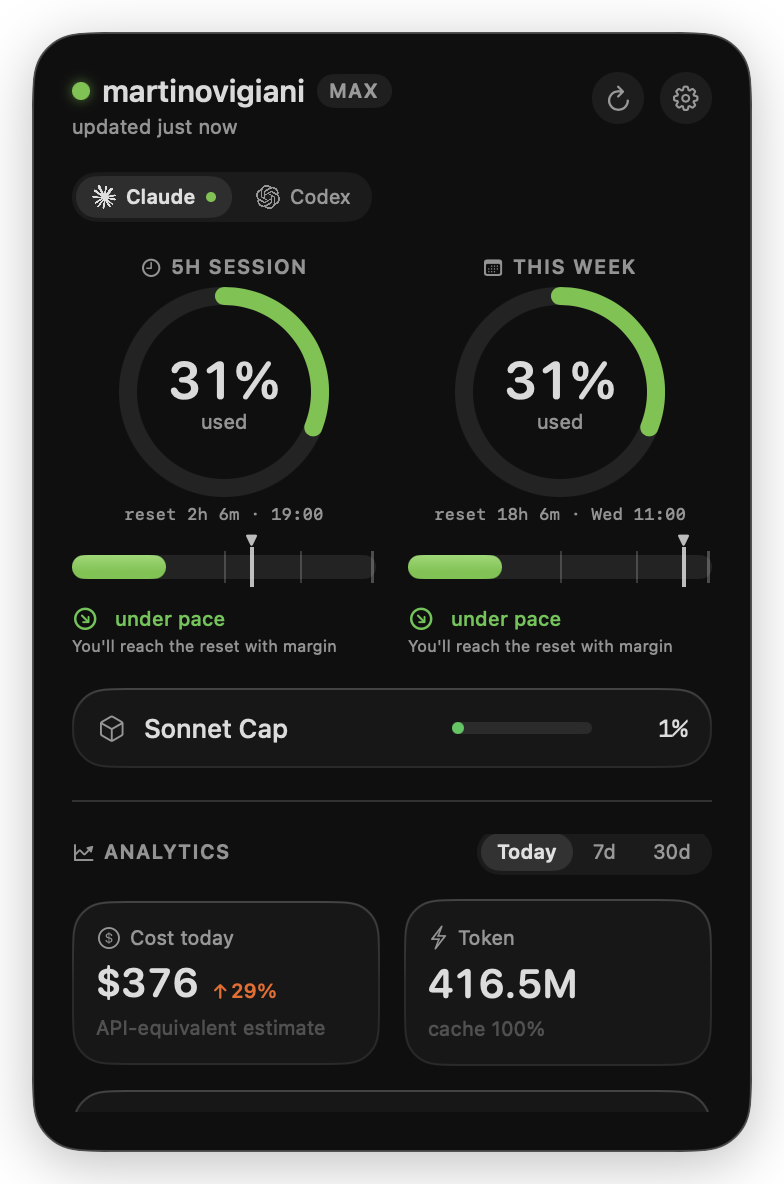
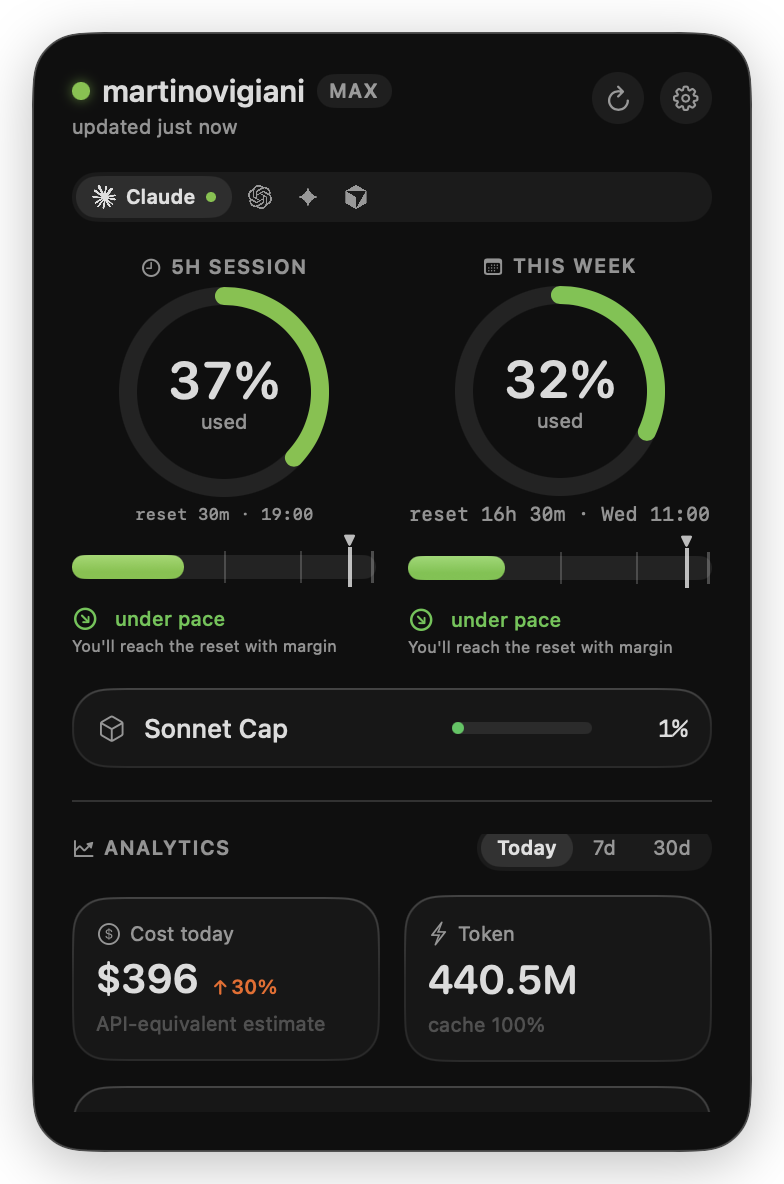
feat(panel): Quit button in header + collapsible limits + light-mode contrast
Panel UI improvements (continues prior in-flight WIP + adds Quit):

- Quit button: third neutral glass circle in the header (power glyph), one tap
  to terminate. Distinct "exit" affordance via red tint on hover only — neutral
  at rest like refresh/settings. Wired through PanelViewModeling.quit() (default
  no-op for mocks) → AppModelPanelAdapter → AppModel.quit(). Until now Quit lived
  only in the status-item right-click menu. Localized IT "Esci da ClaudeBar".

- Collapsible limits band (prior WIP): CollapseHandle turns the limits↔analytics
  divider into a toggle that collapses the band to the two rings, growing the
  panel (panelMaxHeightExpanded) so analytics get real room.

- Light-mode contrast (prior WIP): CardBezel fill more opaque + softer inset
  highlight; tertiary→secondary on disclaimers/footnotes so text stops washing
  out on light glass. Show-more label forced to .primary.

diff --git a/Sources/ClaudeBarApp/Panel/PanelContentView.swift b/Sources/ClaudeBarApp/Panel/PanelContentView.swift
@@ -24,6 +24,10 @@ struct PanelContentView<Model: PanelViewModeling>: View {
 
     @State private var showUsed = true
     @State private var appeared = false
+    /// Fascia limiti collassata ai soli 2 anelli → più spazio verticale alle analytics.
+    /// Controllata dalla `CollapseHandle` sotto la fascia. Vale solo col layout limiti
+    /// (anelli); negli stati error/no-auth non ci sono finestre da collassare.
+    @State private var topCollapsed = false
     @Namespace private var glassNS
 
     @Environment(\.accessibilityReduceMotion) private var reduceMotion
@@ -35,7 +39,9 @@ struct PanelContentView<Model: PanelViewModeling>: View {
     }
 
     var body: some View {
-        GlassEffectContainer(spacing: DS.Spacing.l) {
+        // Collassabile solo quando c'è davvero la fascia anelli (layout limiti).
+        let collapsed = topCollapsed && !model.windows.isEmpty
+        return GlassEffectContainer(spacing: DS.Spacing.l) {
             VStack(alignment: .leading, spacing: DS.Spacing.l) {
                 PanelHeaderView(
                     account: model.account,
@@ -43,7 +49,8 @@ struct PanelContentView<Model: PanelViewModeling>: View {
                     lastUpdated: model.lastUpdated,
                     isRefreshing: model.isRefreshing,
                     onRefresh: { model.refresh() },
-                    onSettings: { model.openSettings() }
+                    onSettings: { model.openSettings() },
+                    onQuit: { model.quit() }
                 )
 
                 // Switcher provider (solo se ≥2 provider abilitati). Con 1 solo provider
@@ -57,7 +64,14 @@ struct PanelContentView<Model: PanelViewModeling>: View {
 
                 providerArea
 
-                Divider().overlay(Color.primary.opacity(0.06))
+                // Separatore interattivo: con le finestre presenti diventa una maniglia che
+                // collassa la fascia ai soli anelli (più aria alle analytics); altrimenti è un
+                // semplice divider (niente da collassare negli stati error/no-auth).
+                if !model.windows.isEmpty {
+                    CollapseHandle(collapsed: $topCollapsed)
+                } else {
+                    Divider().overlay(Color.primary.opacity(0.06))
+                }
 
                 ScrollView {
                     AnalyticsSection(
@@ -70,14 +84,14 @@ struct PanelContentView<Model: PanelViewModeling>: View {
                 // ALTEZZA ADATTIVA: lo ScrollView ha un cap (non più "riempi .infinity") così,
                 // con l'altezza del pannello non più fissa ma `maxHeight`, il pannello si ACCORCIA
                 // quando il contenuto è poco (es. loading/errore) invece di lasciare spazio vuoto.
-                // Sotto il cap del pannello, lo ScrollView si comprime e scrolla → nessun taglio.
-                // (Per tornare ad altezza fissa: ripristina `height: DS.Size.panelMaxHeight` sotto.)
-                .frame(maxHeight: 340)
+                // Collassando la fascia limiti il cap (e il pannello) crescono → la fascia
+                // analytics guadagna ~150pt invece di restare schiacciata.
+                .frame(maxHeight: collapsed ? 480 : 340)
             }
             .padding(DS.Spacing.xl)
         }
         .frame(width: DS.Size.panelWidth)
-        .frame(maxHeight: DS.Size.panelMaxHeight)
+        .frame(maxHeight: collapsed ? DS.Size.panelMaxHeightExpanded : DS.Size.panelMaxHeight)
         .background {
             GlassPanel { Color.clear }
         }
@@ -148,7 +162,7 @@ struct PanelContentView<Model: PanelViewModeling>: View {
     @ViewBuilder
     private var providerContent: some View {
         if !model.windows.isEmpty {
-            LimitsSection(windows: model.windows, showUsed: $showUsed)
+            LimitsSection(windows: model.windows, showUsed: $showUsed, collapsed: topCollapsed)
         } else if let cost = model.usageCost {
             UsageCostSection(cost: cost, credits: model.credits)
         } else if let credits = model.credits {
@@ -158,6 +172,43 @@ struct PanelContentView<Model: PanelViewModeling>: View {
                 credits: credits)
         }
         // Nessun blocco provider → solo analytics locali (degradazione elegante).
+    }
+}
+
+// MARK: - CollapseHandle (separatore interattivo fascia limiti ↔ analytics)
+//
+// Hairline su entrambi i lati + chevron centrato. Tap → collassa la fascia superiore ai soli
+// 2 anelli (via binding), liberando spazio per lo ScrollView analytics; ri-tap → ripristina
+// reset/pace/cap. Chevron verso l'alto = "comprimi", verso il basso = "espandi di nuovo".
+
+private struct CollapseHandle: View {
+    @Binding var collapsed: Bool
+
+    var body: some View {
+        Button {
+            withAnimation(DS.Motion.soft) { collapsed.toggle() }
+        } label: {
+            HStack(spacing: DS.Spacing.s) {
+                hairline
+                Image(systemName: collapsed ? "chevron.down" : "chevron.up")
+                    .font(.system(size: 9, weight: .bold))
+                    .foregroundStyle(.secondary)
+                hairline
+            }
+            .contentShape(Rectangle())
+            .padding(.vertical, 2)
+        }
+        .buttonStyle(.plain)
+        .help(collapsed ? "Show limits detail" : "Collapse to rings — more analytics")
+        .accessibilityLabel(collapsed ? Text("Show limits detail") : Text("Collapse limits to rings"))
+        .accessibilityAddTraits(.isButton)
+    }
+
+    private var hairline: some View {
+        Rectangle()
+            .fill(Color.primary.opacity(0.06))
+            .frame(height: DS.Size.hairline)
+            .frame(maxWidth: .infinity)
     }
 }
 

diff --git a/Sources/ClaudeBarApp/Panel/Components/PanelHeaderView.swift b/Sources/ClaudeBarApp/Panel/Components/PanelHeaderView.swift
@@ -13,6 +13,7 @@ struct PanelHeaderView: View {
     let isRefreshing: Bool
     let onRefresh: () -> Void
     let onSettings: () -> Void
+    let onQuit: () -> Void
 
     @Environment(\.accessibilityReduceMotion) private var reduceMotion
     @State private var spin = false
@@ -52,6 +53,7 @@ struct PanelHeaderView: View {
 
             refreshButton
             settingsButton
+            quitButton
         }
     }
 
@@ -98,6 +100,17 @@ struct PanelHeaderView: View {
         .accessibilityLabel("Preferences")
     }
 
+    // Quit: stessa forma neutra degli altri due, ma con affordance "uscita" su hover (tinta rossa)
+    // così a riposo non grida e a colpo d'occhio si capisce che è l'azione che chiude l'app.
+    private var quitButton: some View {
+        Button(action: onQuit) {
+            Image(systemName: "power")
+        }
+        .buttonStyle(HeaderIconButtonStyle(role: .quit))
+        .help("Quit ClaudeBar")
+        .accessibilityLabel("Quit ClaudeBar")
+    }
+
     // MARK: Helpers
 
     private func updatedText(_ date: Date) -> LocalizedStringKey {
@@ -113,19 +126,46 @@ struct PanelHeaderView: View {
 // MARK: - Stile bottone icona dell'header
 //
 // Cerchio neutro sottile, leggero feedback alla pressione. NON glass → niente fusione
-// tra bottoni adiacenti. Coerente col vetro neutro.
+// tra bottoni adiacenti. Coerente col vetro neutro. Il ruolo `.quit` aggiunge una tinta
+// rossa SOLO su hover (a riposo resta neutro come gli altri): affordance di uscita discreta.
+
+private enum HeaderIconRole {
+    case neutral
+    case quit
+}
 
 private struct HeaderIconButtonStyle: ButtonStyle {
+    var role: HeaderIconRole = .neutral
+
     func makeBody(configuration: Configuration) -> some View {
-        configuration.label
-            .font(.system(size: 12, weight: .medium))
-            .foregroundStyle(.secondary)
-            .frame(width: 26, height: 26)
-            .background(
-                Circle().fill(Color.primary.opacity(configuration.isPressed ? 0.16 : 0.07))
-            )
-            .contentShape(Circle())
-            .animation(.easeOut(duration: 0.12), value: configuration.isPressed)
+        IconButtonBody(configuration: configuration, role: role)
+    }
+
+    private struct IconButtonBody: View {
+        let configuration: Configuration
+        let role: HeaderIconRole
+        @State private var hovering = false
+
+        private var isQuitHot: Bool { role == .quit && hovering }
+
+        var body: some View {
+            let tint: Color = isQuitHot ? UsageColorScale.color(used: 95) : .secondary
+            let fillOpacity = configuration.isPressed ? 0.16 : (hovering ? 0.12 : 0.07)
+            return configuration.label
+                .font(.system(size: 12, weight: .medium))
+                .foregroundStyle(isQuitHot ? AnyShapeStyle(tint) : AnyShapeStyle(.secondary))
+                .frame(width: 26, height: 26)
+                .background(
+                    Circle().fill(
+                        isQuitHot
+                            ? AnyShapeStyle(tint.opacity(configuration.isPressed ? 0.22 : 0.14))
+                            : AnyShapeStyle(Color.primary.opacity(fillOpacity)))
+                )
+                .contentShape(Circle())
+                .onHover { hovering = $0 }
+                .animation(.easeOut(duration: 0.14), value: hovering)
+                .animation(.easeOut(duration: 0.12), value: configuration.isPressed)
+        }
     }
 }
 
@@ -136,7 +176,7 @@ private struct HeaderIconButtonStyle: ButtonStyle {
             statusColor: UsageColorScale.color(used: 62),
             lastUpdated: Date().addingTimeInterval(-8),
             isRefreshing: false,
-            onRefresh: {}, onSettings: {}
+            onRefresh: {}, onSettings: {}, onQuit: {}
         )
         .padding()
     }

diff --git a/Sources/ClaudeBarApp/Panel/Sections/LimitsSection.swift b/Sources/ClaudeBarApp/Panel/Sections/LimitsSection.swift
@@ -10,6 +10,8 @@ import SwiftUI
 struct LimitsSection: View {
     let windows: [UsageWindowVM]
     @Binding var showUsed: Bool
+    /// Collassata: mostra solo i 2 anelli (niente reset/pace/cap) → fascia compatta.
+    var collapsed: Bool = false
 
     private var primary: [UsageWindowVM] {
         windows.filter { $0.kind == .session || $0.kind == .weekly }
@@ -19,17 +21,17 @@ struct LimitsSection: View {
     }
 
     var body: some View {
-        VStack(spacing: DS.Spacing.l) {
+        VStack(spacing: collapsed ? DS.Spacing.s : DS.Spacing.l) {
             // Due anelli grandi affiancati.
             HStack(alignment: .top, spacing: DS.Spacing.l) {
                 ForEach(primary) { window in
-                    WindowColumn(window: window, showUsed: $showUsed)
+                    WindowColumn(window: window, showUsed: $showUsed, collapsed: collapsed)
                         .frame(maxWidth: .infinity)
                 }
             }
 
-            // Cap per-modello (se presenti).
-            if !caps.isEmpty {
+            // Cap per-modello (se presenti) — nascosti quando collassato.
+            if !collapsed, !caps.isEmpty {
                 VStack(spacing: DS.Spacing.s) {
                     ForEach(caps) { cap in
                         CapRow(window: cap)
@@ -47,6 +49,7 @@ struct LimitsSection: View {
 private struct WindowColumn: View {
     let window: UsageWindowVM
     @Binding var showUsed: Bool
+    var collapsed: Bool = false
 
     var body: some View {
         VStack(spacing: DS.Spacing.s) {
@@ -54,11 +57,14 @@ private struct WindowColumn: View {
 
             UsageRing(window: window, showUsed: $showUsed)
 
-            ResetCountdown(resetsAt: window.resetsAt, kind: window.kind)
+            // Reset + Pace solo in modalità estesa: nello stato collassato resta il solo anello.
+            if !collapsed {
+                ResetCountdown(resetsAt: window.resetsAt, kind: window.kind)
 
-            if window.pace != nil {
-                PaceBar(window: window)
-                    .padding(.top, DS.Spacing.xxs)
+                if window.pace != nil {
+                    PaceBar(window: window)
+                        .padding(.top, DS.Spacing.xxs)
+                }
             }
         }
     }

diff --git a/Sources/ClaudeBarApp/Panel/DesignSystem/DesignSystem.swift b/Sources/ClaudeBarApp/Panel/DesignSystem/DesignSystem.swift
@@ -38,6 +38,10 @@ enum DS {
         static let ringLineWidth: CGFloat = 9  // spessore arco anello grande
         static let panelWidth: CGFloat = 360
         static let panelMaxHeight: CGFloat = 560
+        /// Altezza max quando la fascia limiti è collassata ai soli anelli: il pannello
+        /// cresce un po' così lo ScrollView analytics guadagna spazio reale, non solo quello
+        /// liberato dalla fascia (vedi `CollapseHandle` / PanelContentView).
+        static let panelMaxHeightExpanded: CGFloat = 600
         static let paceBarHeight: CGFloat = 12
         static let hairline: CGFloat = 1
     }
@@ -139,12 +143,14 @@ private struct CardBezel: ViewModifier {
     @Environment(\.colorScheme) private var scheme
 
     func body(content: Content) -> some View {
-        let hairline = scheme == .dark ? Color.white.opacity(0.08) : Color.black.opacity(0.06)
-        let inset = scheme == .dark ? Color.white.opacity(0.12) : Color.white.opacity(0.5)
+        let hairline = scheme == .dark ? Color.white.opacity(0.08) : Color.black.opacity(0.08)
+        // Light mode: highlight bianco più tenue (0.5 lavava il testo vicino al bordo alto)
+        // e fill più opaco → maggior contrasto del testo su card sul vetro chiaro.
+        let inset = scheme == .dark ? Color.white.opacity(0.12) : Color.white.opacity(0.32)
         content
             .background(
                 RoundedRectangle(cornerRadius: cornerRadius, style: .continuous)
-                    .fill(Color.dsCardBackground.opacity(scheme == .dark ? 0.5 : 0.7))
+                    .fill(Color.dsCardBackground.opacity(scheme == .dark ? 0.5 : 0.86))
             )
             .overlay(
                 RoundedRectangle(cornerRadius: cornerRadius, style: .continuous)

diff --git a/Sources/ClaudeBarApp/Panel/Sections/AnalyticsSection.swift b/Sources/ClaudeBarApp/Panel/Sections/AnalyticsSection.swift
@@ -133,8 +133,8 @@ struct AnalyticsSection: View {
                 .frame(height: 96)
             if analytics.showCostDisclaimer {
                 Text("API-equivalent estimate: Max plans are flat-rate, this is not real spend.")
-                    .font(.system(size: 9.5))
-                    .foregroundStyle(.tertiary)
+                    .font(.system(size: 10.5))
+                    .foregroundStyle(.secondary)
             }
         }
         .padding(DS.Spacing.m)
@@ -166,6 +166,9 @@ struct AnalyticsSection: View {
                     Label(expanded ? "Show less" : "Show more",
                           systemImage: expanded ? "chevron.up" : "chevron.down")
                         .font(.dsHeadline)
+                        // Esplicito: con `.tint(.clear)` la label glass restava bianca →
+                        // illeggibile su vetro chiaro in light mode. Forziamo il colore primario.
+                        .foregroundStyle(.primary)
                         .frame(maxWidth: .infinity)
                         .padding(.vertical, DS.Spacing.s)
                 }
@@ -203,7 +206,7 @@ private struct KPITile: View {
             if !footnote.isEmpty {
                 Text(footnote)
                     .font(.system(size: 10))
-                    .foregroundStyle(.tertiary)
+                    .foregroundStyle(.secondary)
             }
         }
         .frame(maxWidth: .infinity, alignment: .leading)

diff --git a/Sources/ClaudeBarApp/Panel/Sections/UsageCostSection.swift b/Sources/ClaudeBarApp/Panel/Sections/UsageCostSection.swift
@@ -75,8 +75,8 @@ struct UsageCostSection: View {
                 .frame(height: 96)
             if self.cost.costEstimated, self.cost.showCostDisclaimer {
                 Text("API-equivalent estimate: some costs are estimated from the local price table.")
-                    .font(.system(size: 9.5))
-                    .foregroundStyle(.tertiary)
+                    .font(.system(size: 10.5))
+                    .foregroundStyle(.secondary)
             }
         }
         .padding(DS.Spacing.m)
@@ -110,7 +110,7 @@ private struct CostTile: View {
                 .contentTransition(.numericText())
             Text(self.footnote)
                 .font(.system(size: 10))
-                .foregroundStyle(.tertiary)
+                .foregroundStyle(.secondary)
         }
         .frame(maxWidth: .infinity, alignment: .leading)
         .padding(DS.Spacing.m)

diff --git a/Sources/ClaudeBarApp/Panel/Model/PanelViewModel.swift b/Sources/ClaudeBarApp/Panel/Model/PanelViewModel.swift
@@ -293,11 +293,16 @@ protocol PanelViewModeling: AnyObject {
     func openSettings()
     func reconnect()
     func setRange(_ range: AnalyticsRange)
+    /// Esce dall'app (NSApp.terminate). Default no-op nei mock/preview.
+    func quit()
 }
 
 extension PanelViewModeling {
     /// Default no-op: i mock/adapter che non hanno bisogno del refresh on-demand non devono implementarla.
     func panelDidOpen() {}
+
+    /// Default no-op: i mock/preview non escono dall'app. L'adapter reale inoltra a `AppModel.quit()`.
+    func quit() {}
 
     // Default multi-provider: per i mock/adapter legacy il pannello resta mono-provider (Claude
     // abbonamento), layout limiti invariato. Nessuna regressione.

diff --git a/Sources/ClaudeBarApp/Panel/Model/AppModelPanelAdapter.swift b/Sources/ClaudeBarApp/Panel/Model/AppModelPanelAdapter.swift
@@ -144,6 +144,10 @@ final class AppModelPanelAdapter: PanelViewModeling {
         self.model.openPreferences()
     }
 
+    func quit() {
+        self.model.quit()
+    }
+
     func reconnect() {
         // Riconnessione resiliente: prompt Keychain SUBITO + poll bounded del refresh pigro della
         // CLI (vedi AppModel.reconnect). Non un semplice refresh: dopo aver messo la password il

diff --git a/Sources/ClaudeBarApp/App/AppDelegate.swift b/Sources/ClaudeBarApp/App/AppDelegate.swift
@@ -164,6 +164,9 @@ final class AppDelegate: NSObject, NSApplicationDelegate {
 
     #if DEBUG
     @objc private func handleTogglePanelNotification() {
+        // Attiva l'app: il pannello è un NSPanel nonactivating e in un'app background (LSUIElement)
+        // un semplice orderFront non lo mostra a schermo. Necessario per la cattura headless.
+        NSApp.activate(ignoringOtherApps: true)
         self.statusController?.togglePanel()
     }
 